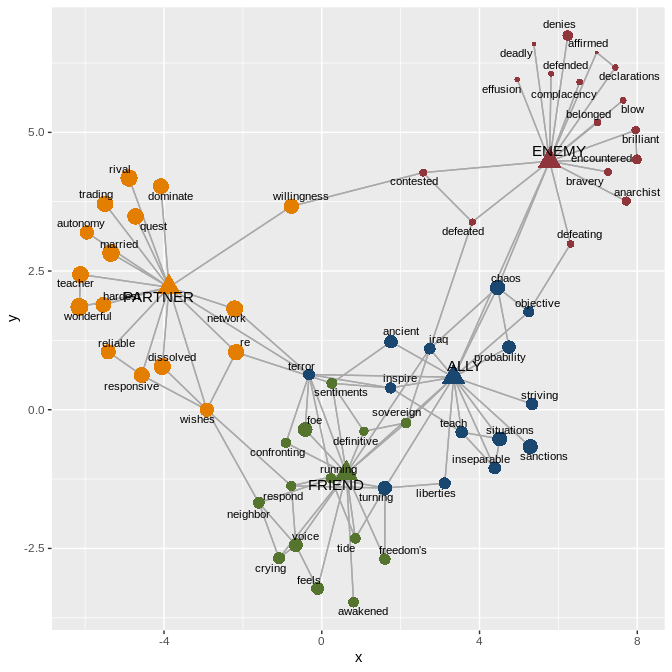
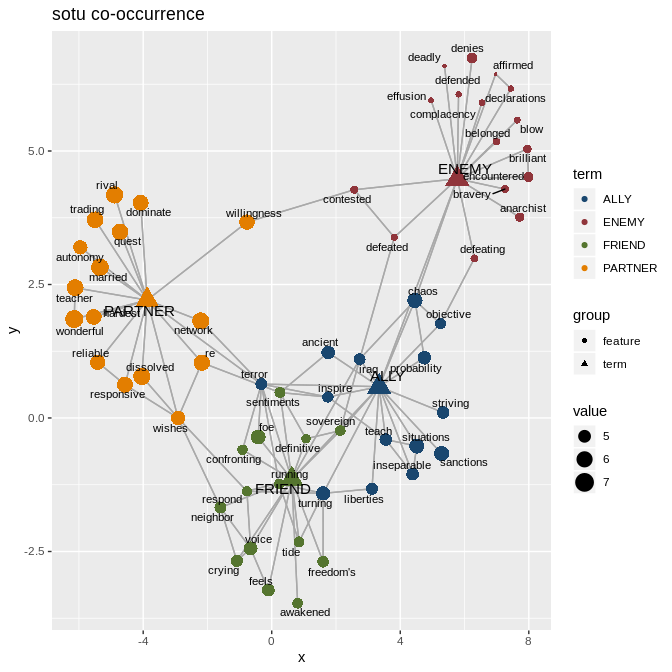
fix vizzes

diff --git a/README.md b/README.md
@@ -173,16 +173,16 @@ lexvarsdatr::lvdr_get_closest(tfm = cos_sim,
 
 | term    | feature       |       cooc|
 |:--------|:--------------|----------:|
-| SCIENCE | RESEARCH      |  0.5653614|
-| SCIENCE | TECHNOLOGY    |  0.5614716|
-| SCIENCE | SCIENTIFIC    |  0.4301783|
-| SCIENCE | SPACE         |  0.4027081|
-| SCIENCE | TECHNOLOGICAL |  0.3857779|
-| TARIFF  | TAXATION      |  0.4863071|
-| TARIFF  | AD            |  0.4095970|
-| TARIFF  | PROTECTIVE    |  0.4077713|
-| TARIFF  | REVENUE       |  0.3908691|
-| TARIFF  | IMPORTATIONS  |  0.3863290|
+| SCIENCE | RESEARCH      |  0.5653951|
+| SCIENCE | TECHNOLOGY    |  0.5614557|
+| SCIENCE | SCIENTIFIC    |  0.4302111|
+| SCIENCE | SPACE         |  0.4026944|
+| SCIENCE | TECHNOLOGICAL |  0.3857579|
+| TARIFF  | TAXATION      |  0.4863074|
+| TARIFF  | AD            |  0.4095870|
+| TARIFF  | PROTECTIVE    |  0.4077880|
+| TARIFF  | REVENUE       |  0.3908575|
+| TARIFF  | IMPORTATIONS  |  0.3863092|
 
 ### § Build network structure
 
@@ -245,10 +245,20 @@ network %>%
                              filter = group == 'feature'), 
                              repel = TRUE, size = 3) +
   ggthemes::scale_color_stata()+
-  theme(legend.position = "none")
+  ggtitle('sotu co-occurrence')
 ```
 
 ![](README_files/figure-markdown_github/unnamed-chunk-10-1.png)
+
+``` r
+  theme(legend.position = "none")
+```
+
+    ## List of 1
+    ##  $ legend.position: chr "none"
+    ##  - attr(*, "class")= chr [1:2] "theme" "gg"
+    ##  - attr(*, "complete")= logi FALSE
+    ##  - attr(*, "validate")= logi TRUE
 
 **Another take** using the word association data set,
 `lvdr_association_sparse`:
@@ -277,6 +287,7 @@ network2 %>%
                              filter = group == 'feature'), 
                              repel = TRUE, size = 3) +
   ggthemes::scale_color_stata()+
+  ggtitle('word association norms') +
   theme(legend.position = "none")
 ```
 
